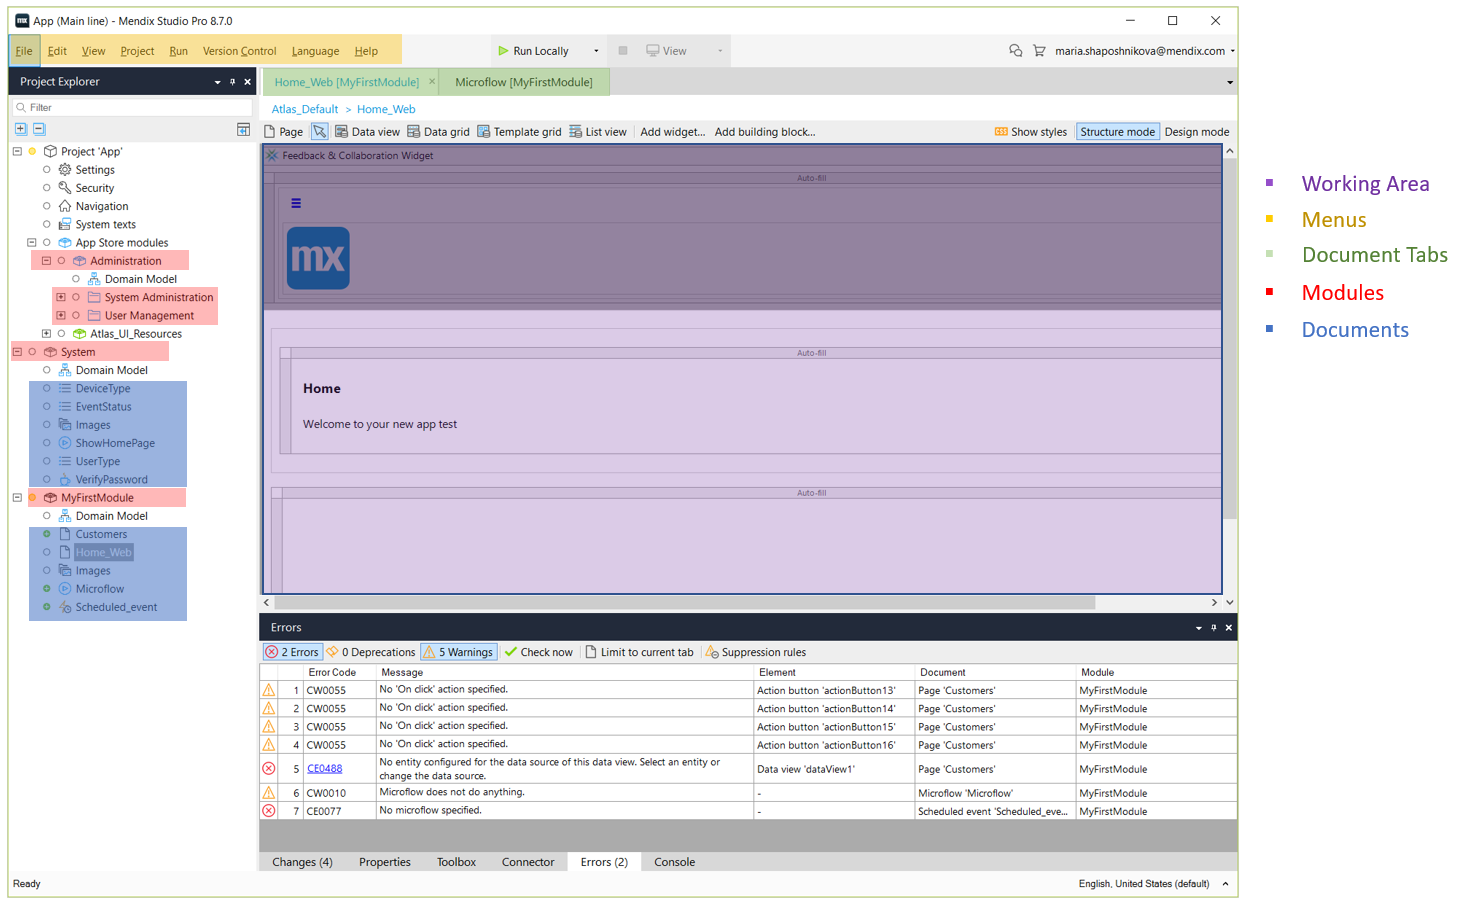
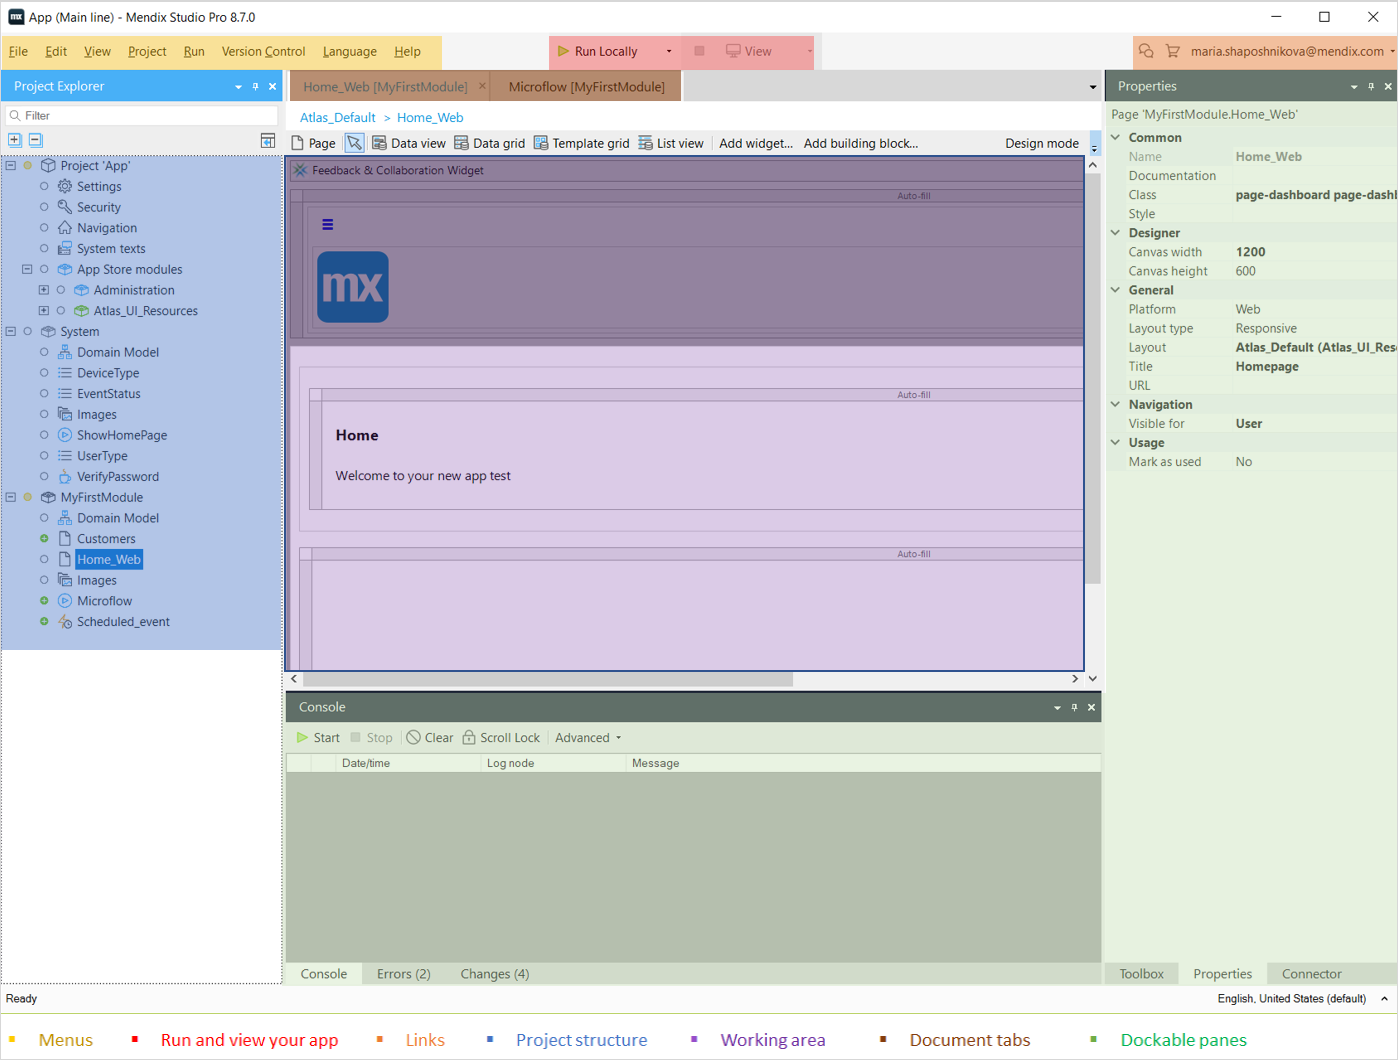
Rewrite and restructure Studio Pro Overview

diff --git a/content/refguide/studio-pro-overview.md b/content/refguide/studio-pro-overview.md
@@ -10,25 +10,49 @@ tags: ["Studio Pro"]
 
 ## 1 Introduction
 
-Mendix Studio Pro is the tool for creating, viewing, and editing your Mendix applications. A Mendix app is called a [project](project) in Studio Pro. 
-
-## Installing Studio Pro
-
-## Studio Pro Interface
-
-A project consists of many *documents* that are grouped in [modules](modules) and folders. A *document* is a individual file, for example, a [page](pages), [microflow](microflows), or a [scheduled event](scheduled-events). 
-
-![Studio Pro Diagram](attachments/studio-pro-overview/studio-pro-diagram.png)
+Mendix Studio Pro is the tool for creating, viewing, and editing your Mendix applications. A Mendix app is called a [project](project) in Studio Pro.  You can easily go from Studio Pro to the Developer Portal, Mendix Studio, or App Store. 
 
 One Studio Pro instance can have only one project open at a time, but you can open two Studio Pro instances when necessary.
-
-This documentation describes the graphical user interface of Studio Pro. 
 
 {{% alert type="info" %}}
 When Studio Pro is open, press <kbd>F1</kbd> to quickly jump to documentation.
 {{% /alert %}}
 
-## 2 Document Tabs {#documents}
+This document describes the user interface of Mendix Studio Pro. 
+
+<img src="attachments/studio-pro-overview/studio-pro-diagram.png" alt="Studio Pro Diagram"  />
+
+## 2 Project Structure
+
+A project consists of individual files (*documents*) and settings that are grouped in folders and [modules](modules). The complete structure of your project can be viewed in the **Project Explorer**. For more information on a project structure, see [Project Explorer](project-explorer).
+
+## 3 Top Bar
+
+The Studio Pro top bar contains the following items:
+
+* [Menus](#menus) 
+* [Buttons to run and view your app](#run-and-view)
+* [Links to the Developer Portal and App Store](#links) 
+
+### 3.1 Menus {#menus}
+
+In the Studio Pro top bar, you can see several menus, such as [Edit](edit-menu), [View](view-menu), or [Version Control](version-control-menu) menus. Each menu contains menu items that allow you to perform various actions, for example, to [create a deployment package](create-deployment-package-dialog), set [preferences](preferences-dialog), or view the [Errors](errors-pane) pane. 
+
+For more information on menus, see [Menus](menus). 
+
+### 3.2 Run and View Buttons {#run-and-view}
+
+You can deploy your app by clicking **Run** or **Run locally** buttons. To view your deployed app, click the **View** button. 
+
+For more information on deployment in Mendix, see [Deployment](developerportal/deploy).
+
+For more information on deploying your app and versioning it, see  the [Versioning a Project Deployed to the Cloud](using-version-control-in-studio-pro#versioning-project) section in *Using Version Control in Studio Pro*. 
+
+### 3.3 Links to the Developer Portal and App Store {#links}
+
+In the top-right you can find links to the Developer Portal and App Store. You can also see your account name (if you are signed in). Click the account name to navigate to your apps, the Developer Portal, your profile, or to sign out. 
+
+## 4 Document Tabs {#documents}
 
 The documents you view and edit are shown in tabs. 
 
@@ -44,15 +68,17 @@ You can have a number of tabs open, just like in a modern web browser. They can 
 
 Each document has its own save state, history, and future, so undo and redo actions are unlimited.
 
-## 3 Menus 
+## 5 Working Area
 
-In the Studio Pro top bar, you can see several menus, such as [Edit](edit-menu), [View](view-menu), or [Version Control](version-control-menu) menus. Each menu contains menu items that allow you to perform various actions, for example, to [create a deployment package](create-deployment-package-dialog), set [preferences](preferences-dialog), or view the [Errors](errors-pane) pane. 
+A working area is an editor that allows you to change documents or a domain model. Depending on which document you are working on, it has different settings in its top area. 
 
-For more information on menus, see [Menus](menus). 
+## 6 Panes
 
-## 4 Shortcut Keys
+Dockable panes can be positioned around the working area and contain various elements and settings. For example, you can view list of errors, configure properties of a specific document or an element, view toolbox. Panes can be opened via [Menus](menus). 
 
-### 4.1 General Shortcut Keys
+## 7 Shortcut Keys
+
+### 7.1 General Shortcut Keys
 
 In the main window pane, <kbd>Ctrl</kbd> + <kbd>Tab</kbd> can be used to navigate between all open documents. Other shortcut keys that can be used in the main window pane can be found next to their relevant menu item in  [Menus](menus).
 
@@ -73,7 +99,7 @@ In most edit grids (such as the list of attributes in the entity properties), th
 | <kbd>Enter</kbd> | Edits the currently selected item. |
 | <kbd>Delete</kbd> | Deletes the currently selected item(s). |
 
-### 4.2 Domain Model Editor Shortcut Keys
+### 7.2 Domain Model Editor Shortcut Keys
 
 The following shortcut keys are available in the domain model editor:
 
@@ -83,7 +109,7 @@ The following shortcut keys are available in the domain model editor:
 | <kbd>Ctrl</kbd> + <kbd>A</kbd> | Selects all entities. |
 | <kbd>Esc</kbd> | Clears selection. |
 
-### 4.3 Page Editor Shortcut Keys
+### 7.3 Page Editor Shortcut Keys
 
 The following shortcut keys are available in the page editor:
 
@@ -94,7 +120,7 @@ The following shortcut keys are available in the page editor:
 | <kbd>Enter</kbd> | Edits the properties of the currently selected object in a dialog box. |
 | <kbd>F2</kbd> | Edits the caption of a label or button inline on the page. You can also just start typing a letter or a digit and the caption will be replaced by what you type. |
 
-### 4.4 Microflow Editor Shortcut Keys
+### 7.4 Microflow Editor Shortcut Keys
 
 The following shortcut keys are available in the microflow editor:
 
@@ -109,7 +135,7 @@ The following shortcut keys are available in the microflow editor:
 | <kbd>Shift</kbd> when resizing an activity | When resizing the entity, by holding <kbd>Shift</kbd> , the microflow component will stay centered at its current position and will expand equally in all directions. |
 | <kbd>Ctrl</kbd> when selecting multiple activities | When pressing the <kbd>Ctrl</kbd>, you can select additional microflow components. Clicking a selected component while holding <kbd>Ctrl</kbd> will deselect it. |
 
-### 4.5 Microflow Debugger Shortcut Keys {#debugger-shortcuts}
+### 7.5 Microflow Debugger Shortcut Keys {#debugger-shortcuts}
 
 The following shortcut keys are available for the the microflow debugger:
 

diff --git a/content/refguide/index.md b/content/refguide/index.md
@@ -13,7 +13,23 @@ Before installing Studio Pro 8, please read [System Requirements](system-require
 
 If you are looking for step-by-step guides on performing various Mendix actions, browse the [Studio Pro 8 How-to's](/howto).
 
-## 2 Document Categories
+## 2 Studio Pro Functionality
+
+Studio Pro allows you to create apps, run and test them. 
+
+### Modeling an App
+
+Modeling an app involves creating pages, adding logic, configuring security. For more information on what functionality you can use to model your app, see App Modeling.  
+
+### Testing an App
+
+When it comes to testing your application, you first need to decide what you are going to test: integration with external services, app logic (microflows), etc. 
+
+For information on how to install Studio Pro, see [How to Install Mendix Studio Pro](/howto/general/install).
+
+### Deploying an App
+
+## 3 Document Categories
 
 The *Studio Pro 8 Guide* is divided into the following categories:
 

diff --git a/content/refguide/project-explorer.md b/content/refguide/project-explorer.md
@@ -15,7 +15,9 @@ The **Project Explorer** shows the complete structure of your project including 
 The **Project Explorer** consists of the following:
 
 * **Project** folder – contains settings and documents that apply to your project as a whole (for more information, see [Projects](project))
-* **Modules**  – contain settings and documents, such as pages, microflows, a domain model, that apply to this module (for more information, see [Modules](modules)) 
+* **Modules**  – contain settings, a domain model, and *documents* that apply to this module (for more information, see [Modules](modules)) 
+  * **Domain model** – a model that describes the information (or *data*) used by your application in an abstract way; one module can have one domain model only 
+  * **Document** – an individual file, for example, a [page](pages), [microflow](microflows), or a [scheduled event](scheduled-events). 
 
 ## 2 Performing Basic Functions
 

diff --git a/content/refguide/using-version-control-in-studio-pro.md b/content/refguide/using-version-control-in-studio-pro.md
@@ -300,7 +300,7 @@ The second method should be used if the first method is not possible for some re
 3. Commit your changes using Studio Pro. 
 4. Reopen the main line project in Studio Pro only after overwriting the files.
 
-## 8 Versioning a Project Deployed to the Cloud
+## 8 Versioning a Project Deployed to the Cloud {#versioning-project}
 
 ### 8.1 Deploying Locally
 
